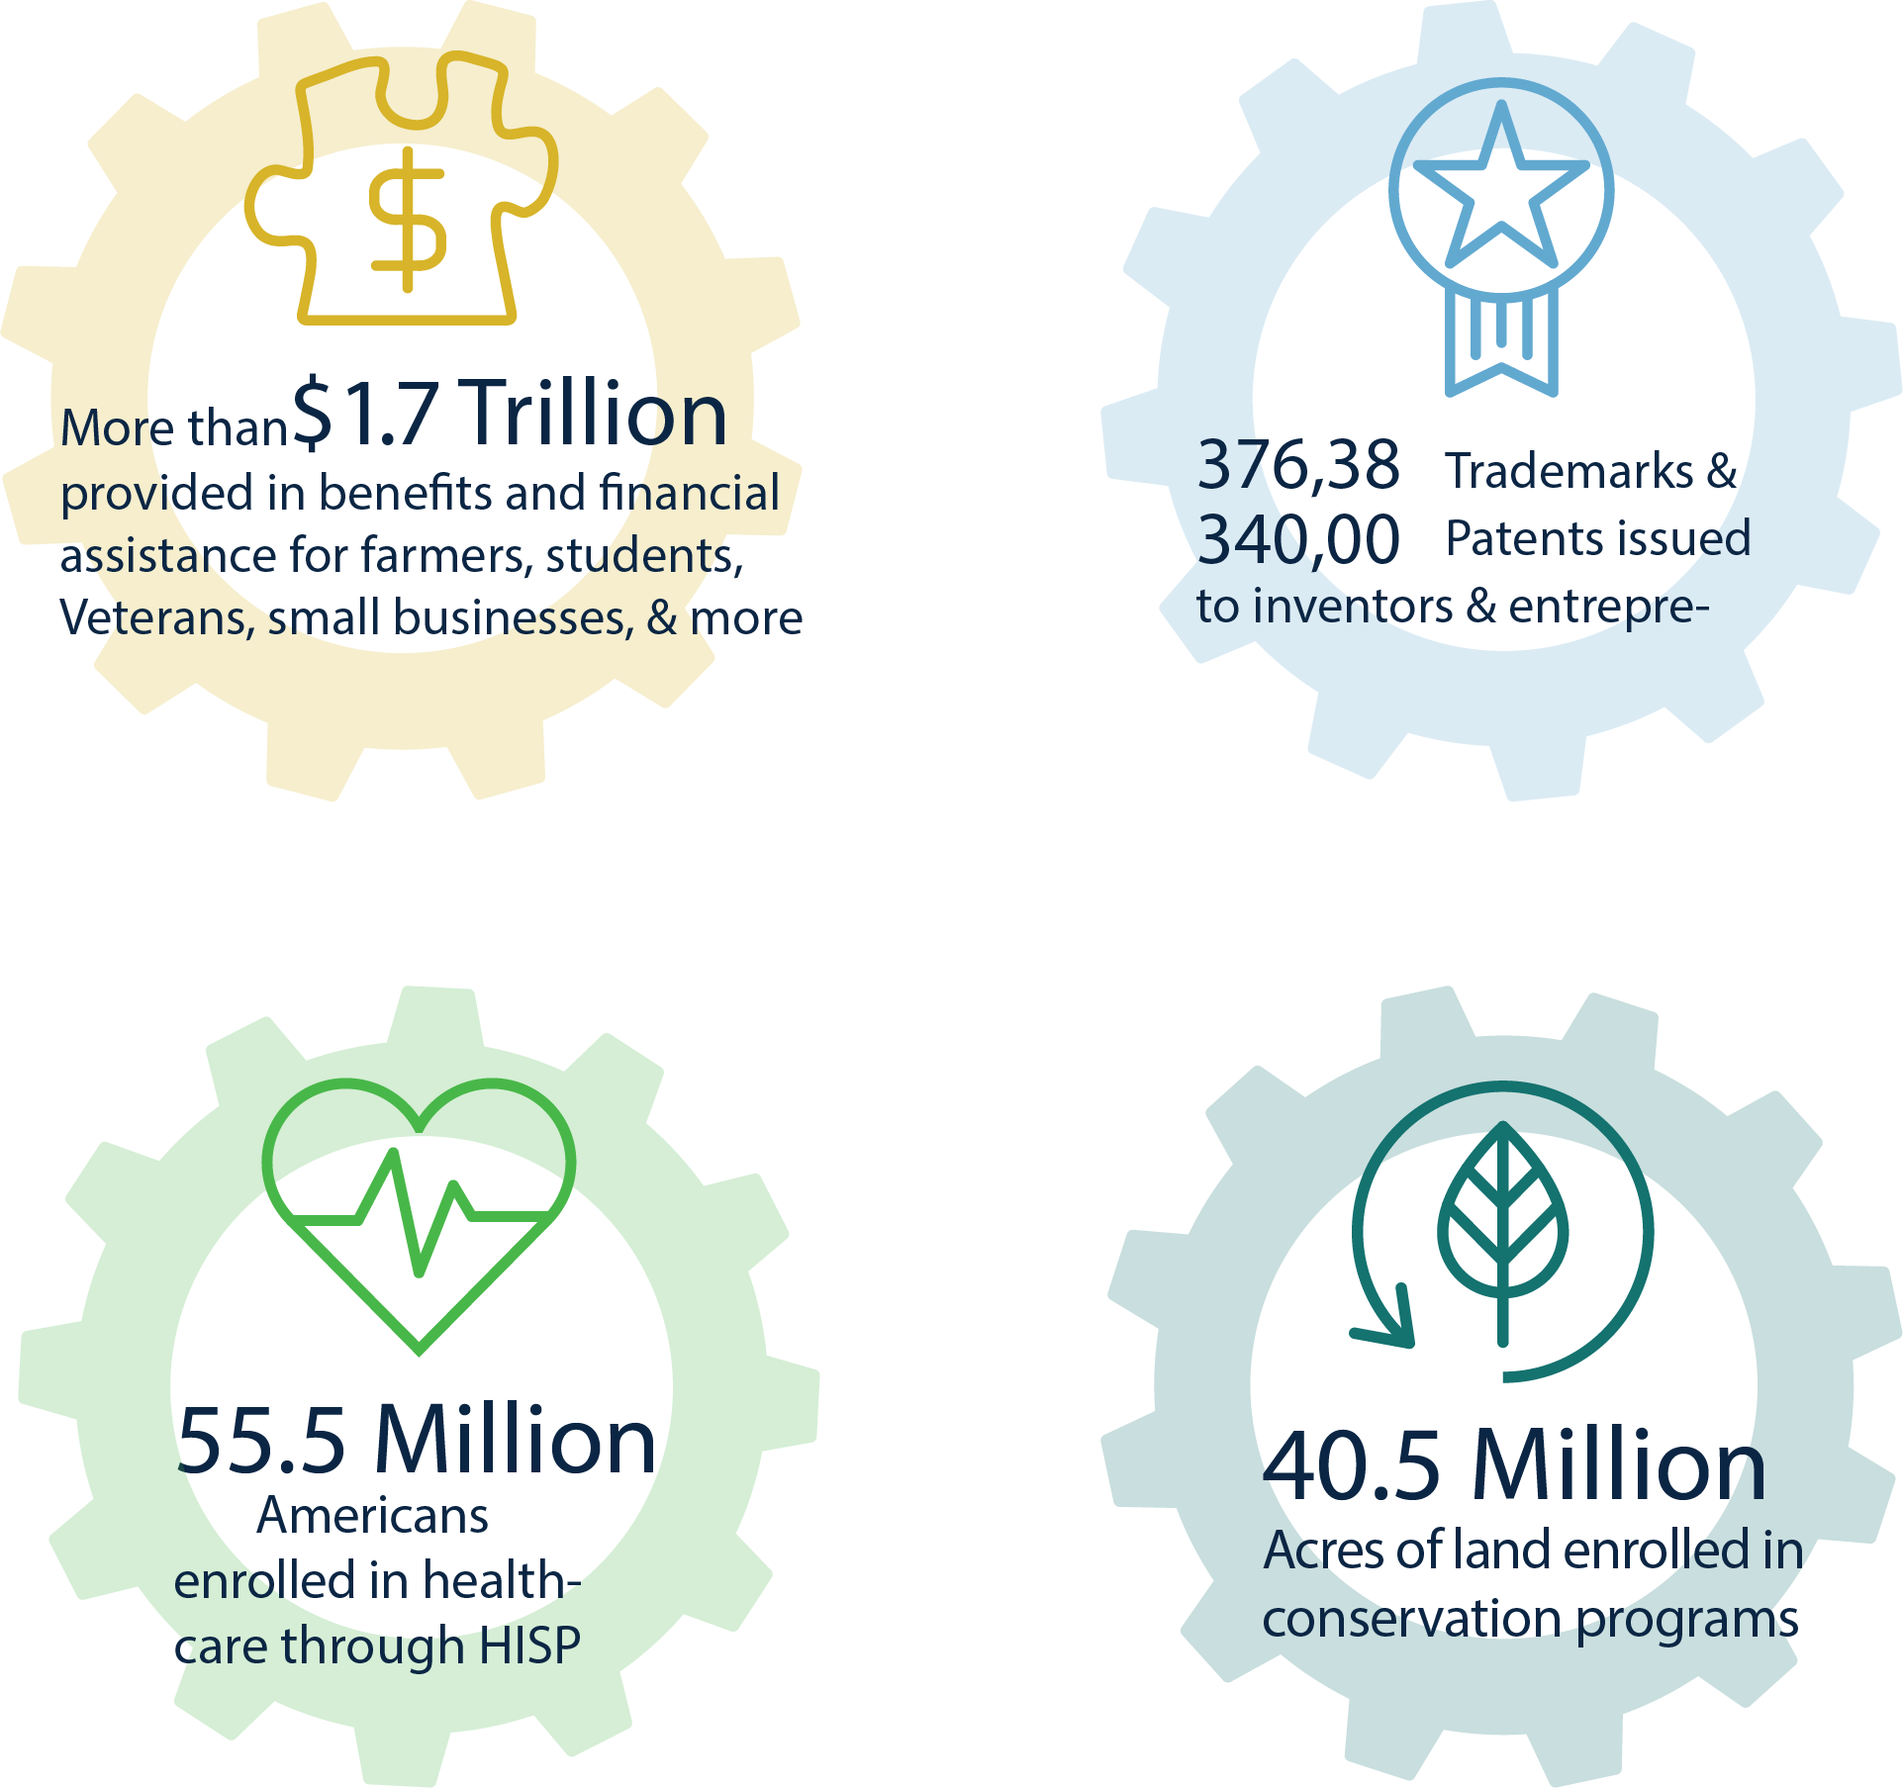
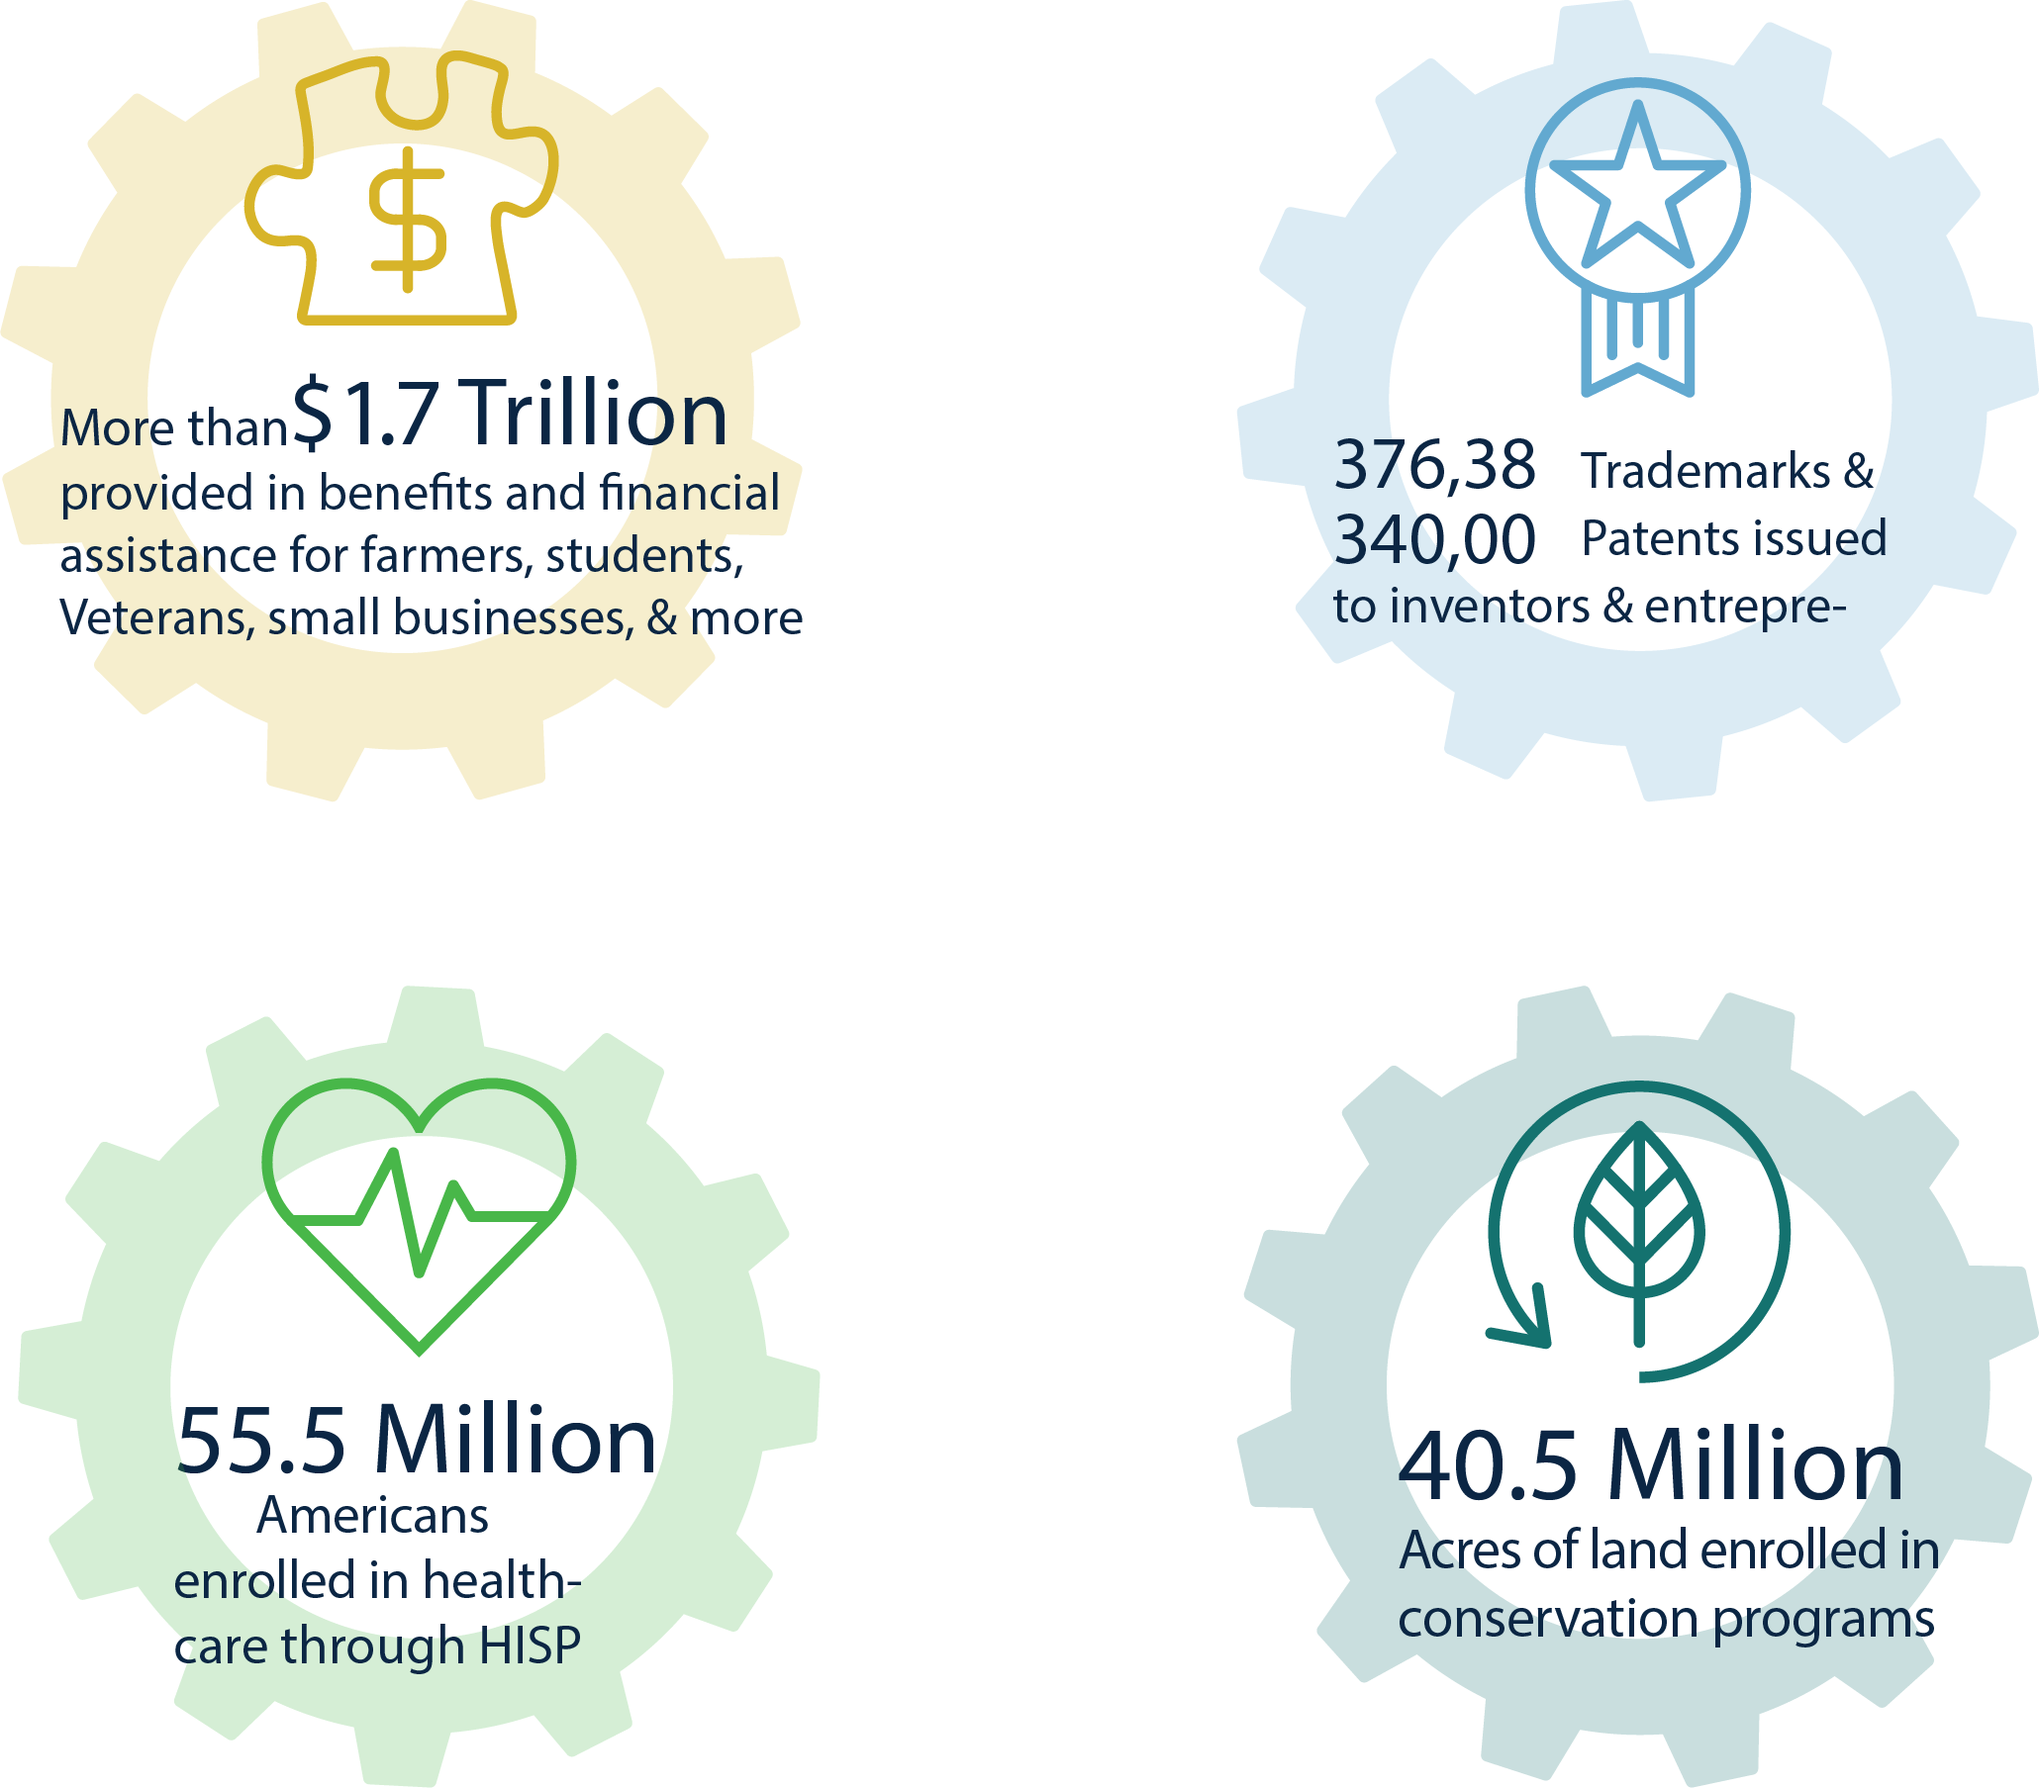
build HISP landing page

diff --git a/cx/index.html b/cx/index.html
@@ -17,15 +17,11 @@ agency_dir: cx
   <div class="usa-grid usa-graphic_list-row">
 
     <div class="usa-width-one-half usa-media_block">
-      <p>Despite some important strides to improve customer experience, many federal government services fail to meet the
-expectations of the public, creating unnecessary hassle and cost for citizens, businesses, and the government itself.</p>
-
-<p>The Customer Experience Cross-Agency Priority Goal and OMB Circular A-11 Section 280 begin to raise the standard of service by
-first focusing on applying proven practices to High Impact Service Providers (HISPs). These 25 services across the Federal Government
-have been identified due to the scale and impact of their public-facing services.</p>
+      <p>Despite some important strides to improve customer experience, many federal government services fail to meet theexpectations of the public, creating unnecessary hassle and cost for citizens, businesses, and the government itself.</p>
+      <p>The Customer Experience Cross-Agency Priority Goal and OMB Circular A-11 Section 280 begin to raise the standard of service byfirst focusing on applying proven practices to High Impact Service Providers (HISPs). These 25 services across the Federal Governmenthave been identified due to the scale and impact of their public-facing services.</p>
     </div>
     <div class="usa-width-one-half usa-media_block">
-        <img src="{{ site.baseurl }}/img/cx/300ppi/gears.png" alt="Gears seal" style="height:425px; align:center;">
+        <img src="{{ site.baseurl }}/img/cx/300ppi/gears.png" alt="Gears seal" style="height:350px; align:center;">
     </div>
 
 </div>
@@ -42,22 +38,65 @@ have been identified due to the scale and impact of their public-facing services
     {% for hisp in site.data.hisps %}
     <div class="usa-width-one-sixth usa-media_block" style="margin-top:2em">
       <div style="height:250px;text-align:center;">
-      <img src="{{ site.baseurl }}/img/cx/agencies/{{ hisp.department_abbreviation }}-seal.png" alt="{{ this_hisp.department }} seal" style="width:80px;">
-
-       <p>{{ hisp.department }}, {{ hisp.bureau}}</p>
-       </div>
+        <img src="{{ site.baseurl }}/img/cx/agencies/{{ hisp.department_abbreviation }}-seal.png" alt="{{ this_hisp.department }} seal" style="width:80px;"><br />
+        <a style="text-decoration:none;" href="{{ site.baseurl }}/cx/dashboard/{{ hisp.department_abbreviation }}/{{ hisp.service_abbreviation }}">{{ hisp.department }}, {{ hisp.bureau}}</a>
+     </div>
     </div>
     {% endfor %}
   </div>
 </section>
 
 <section class="usa-section usa-graphic_list">
+
+  <div class="usa-grid usa-graphic_list-row">
+    <div class="usa-width-one-whole usa-media_block">
+      <h2>HiSP Highlights</h2>
+    </div>
+  </div>
+
   <div class="usa-grid usa-graphic_list-row">
 
-    <div class="usa-width-one-whole usa-media_block">
-    Sources/highlights
+    <div class="usa-width-one-third usa-media_block">
+      <div class="HISP-border">
+        <h2>Innovation</h2>
+        <p><b>US Patent & Trademark Office</b><br>
+        Handled over 800,000 calls issuingover 707,000 trademarks andpatents to further American innovation.</p>
+        <p><b>Small Business Administration Field Operations</b><br>
+        Provided more than $30 billion to small businesses, supporting 600,000 jobs.</p>
+      </div>
+      <div class="HISP-border">
+        <h2>Veterans</h2>
+        <p><b>Veterans Health Administration</b><br>
+          Schedules 91% of appointments within 30 days, giving Veterans more timely access to healthcare.</p>
+        <p><b>Veterans Benefits Administration</b><br>
+          Provide 5.2 million Veterans and survivors with compensation</p>
+      </div>
+      <div class="HISP-border">
+        <h2>Land</h2>
+        <p><b>Farm Service Agency</b><br>
+          Provided $39.9 billion in credit to family operations, supporting Americans in agriculture..</p>
+        <p><b>National Resources Conservation Service</b><br>
+          Awarded 158,000 landowners contracts for conservation efforts.</p>
+        <p><b>Trust Beneficiary Call Center Office of the Special Trustee for American Indians</b><br>
+          Appraised 717,062 acres of land for Land Buy-Back Program.</p>
+      </div>
 
+    </div>
+    <div class="usa-width-one-third usa-media_block">
+      <div class="HISP-border">
+        <h2>Innovation</h2>
+        <p>US Patent & Trademark Office<br>
+        Handled over 800,000 calls issuingover 707,000 trademarks andpatents to further American innovation.</p>
+        <p>Small Business Administration Field Operations<br>
+        Provided more than $30 billion to small businesses, supporting 600,000 jobs.</p>
+      </div>
+    </div>
+    <div class="usa-width-one-third usa-media_block">
+      <div class="HISP-border">
+        <h2>Innovation</h2>
+      </div>
     </div>
 
   </div>
+
 </section>

diff --git a/_sass/_cx-dashboard.scss b/_sass/_cx-dashboard.scss
@@ -182,3 +182,13 @@ height : 75px;
     -webkit-text-fill-color: transparent;
   }
 }
+
+.HISP-border {
+	border-top:#162e51 solid 5px;
+	padding:7px;
+}
+
+.HISP-border h2 {
+	margin-top: 0;
+	color: #162e51;
+}
